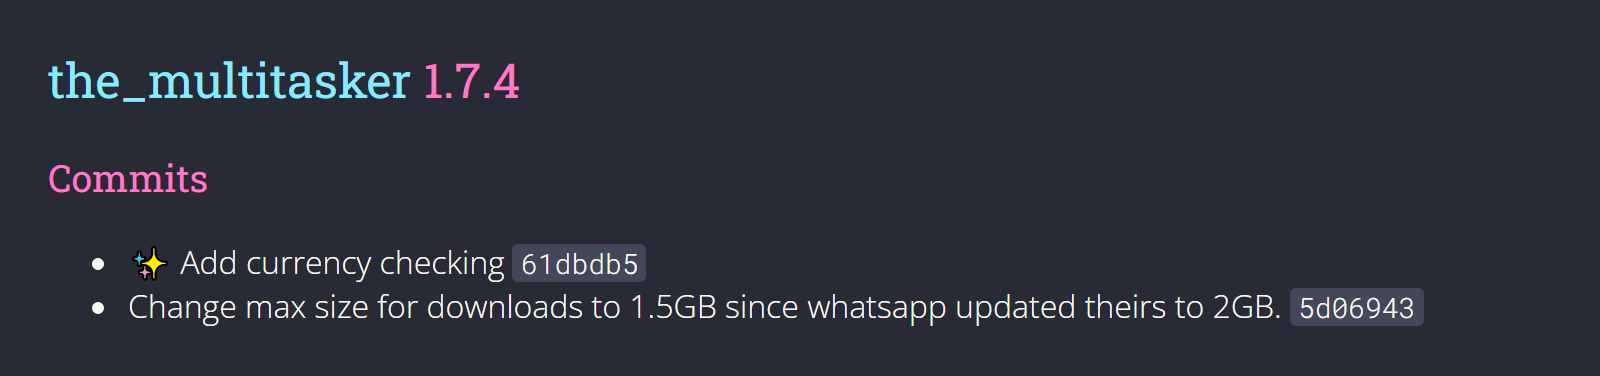
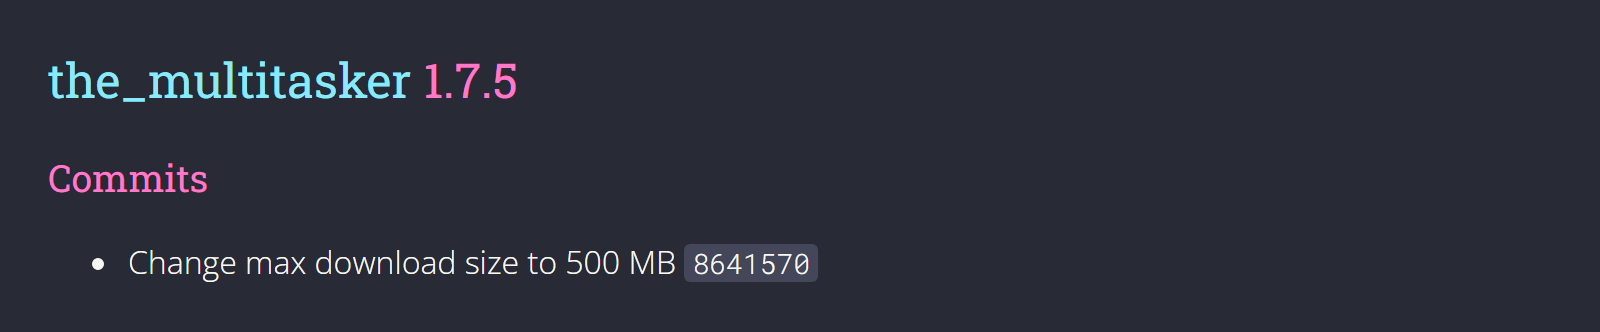
Release 1.7.5

Changed region(s): [[0.0312, 0.6325, 0.9062, 0.8735], [0.0312, 0.1506, 0.3438, 0.3012], [0.0312, 0.4217, 0.1562, 0.6024]]

diff --git a/CHANGELOG.md b/CHANGELOG.md
@@ -7,7 +7,17 @@ and this project adheres to [Semantic Versioning](https://semver.org/spec/v2.0.0
 
 Generated by [`auto-changelog`](https://github.com/CookPete/auto-changelog).
 
-## [1.7.4](https://github.com/eyalmichon/TheMultitasker/compare/1.7.3...1.7.4)
+## [1.7.5](https://github.com/eyalmichon/TheMultitasker/compare/1.7.4...1.7.5)
+
+
+
+
+### Commits
+
+- Change max download size to 500 MB [`8641570`](https://github.com/eyalmichon/TheMultitasker/commit/86415700dda8a32f243412eba7d290055ac4e85e)
+
+
+## [1.7.4](https://github.com/eyalmichon/TheMultitasker/compare/1.7.3...1.7.4) - 2022-08-31
 
 
 
@@ -15,6 +25,7 @@ Generated by [`auto-changelog`](https://github.com/CookPete/auto-changelog).
 ### Commits
 
 - ✨ Add currency checking [`61dbdb5`](https://github.com/eyalmichon/TheMultitasker/commit/61dbdb5441c6c42ae7680a10ce85fe0ca2160cd4)
+- Release 1.7.4 [`00e0680`](https://github.com/eyalmichon/TheMultitasker/commit/00e06807648b81d0936f2f54ff41f832d1bf29d7)
 - Change max size for downloads to 1.5GB since whatsapp updated theirs to 2GB. [`5d06943`](https://github.com/eyalmichon/TheMultitasker/commit/5d06943315407e4a2da7a47c1f85db4b895349b1)
 
 
